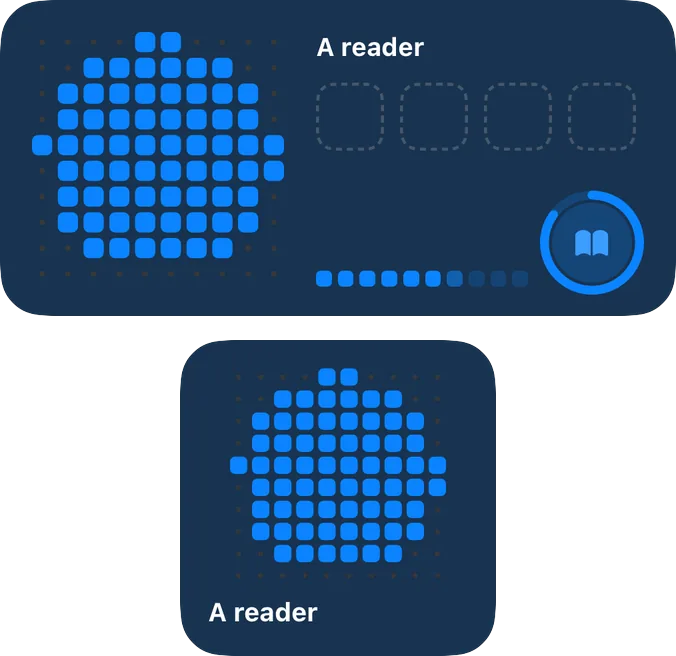
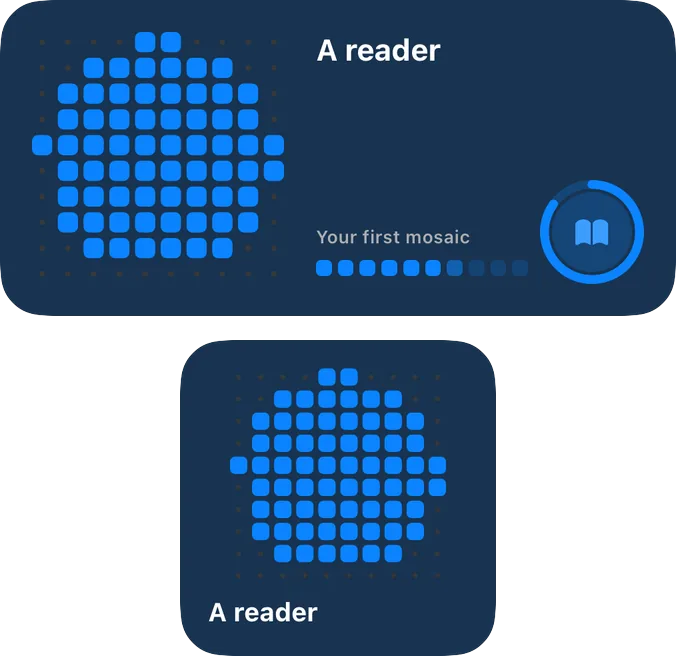
Site in step with build 1.1 (10): new Today and week, This week, Who you're becoming and Next up widget images; This week 'Habits' choice in support, llms.txt and widgets tab; Next up label in the demo

diff --git a/index.html b/index.html
@@ -25,8 +25,8 @@
 <link rel="icon" href="/favicon.svg?v=20261007" type="image/svg+xml">
 <link rel="apple-touch-icon" href="/assets/img/apple-touch-icon.png?v=20261007">
 <link rel="manifest" href="/site.webmanifest?v=20261007">
-<link rel="stylesheet" href="/assets/site.css?v=20261006">
-<script src="/assets/site.js?v=20261006" defer></script>
+<link rel="stylesheet" href="/assets/site.css?v=20261014">
+<script src="/assets/site.js?v=20261014" defer></script>
 <script type="application/ld+json">{"@context": "https://schema.org", "@type": "SoftwareApplication", "name": "Mostly Daily", "operatingSystem": "iOS", "applicationCategory": "HealthApplication", "url": "https://mostlydaily.com", "description": "A habit tracker that forgives. Miss a day, keep your progress: one miss never resets anything, rest days count as rest, and every check-in adds a tile to your mosaic. No account, no tracking.", "inLanguage": "en", "softwareVersion": "1.0", "image": "https://mostlydaily.com/assets/img/app-icon.png", "screenshot": ["https://mostlydaily.com/assets/img/today.jpg", "https://mostlydaily.com/assets/img/habit-screen.jpg", "https://mostlydaily.com/assets/img/limit-screen.jpg", "https://mostlydaily.com/assets/img/today-all-done.jpg"], "author": {"@type": "Person", "name": "Uladzimir Kazakevich"}}</script>
 <script type="application/ld+json">{"@context": "https://schema.org", "@type": "FAQPage", "mainEntity": [{"@type": "Question", "name": "What happens when I miss a day?", "acceptedAnswer": {"@type": "Answer", "text": "Nothing is reset. Your level dips a little and comes back just as fast when you check in again. Your run of \"never missed twice\" only ends after two misses in a row."}}, {"@type": "Question", "name": "What are habit steps?", "acceptedAnswer": {"@type": "Answer", "text": "A Build habit can start with its two-minute version and grow a step at a time. When a step has felt routine for a few weeks, the app offers the next one. Nothing changes by itself, you can go back a step anytime, and past days keep their credit. Free includes one next step at a time; Premium lets you plan up to 4 steps ahead."}}, {"@type": "Question", "name": "What is a Limit habit?", "acceptedAnswer": {"@type": "Answer", "text": "A habit you want less of, like drinks, sugar or screen time. You log the amount in the evening and get a colour calendar of clear, lighter and heavier days, with a goal of clear days per week."}}, {"@type": "Question", "name": "Do I need an account?", "acceptedAnswer": {"@type": "Answer", "text": "No. There is no account and no sign-in. Your habits stay on your devices and sync through your own iCloud."}}, {"@type": "Question", "name": "Is my data private?", "acceptedAnswer": {"@type": "Answer", "text": "Yes. No server, no analytics, no tracking. Check-ins from Apple Health and the drinks you log stay on your phone and are never put in iCloud."}}, {"@type": "Question", "name": "What happens if Premium ends?", "acceptedAnswer": {"@type": "Answer", "text": "Nothing is deleted. Habits beyond the Free plan are paused with all their history, and you can export everything at any time."}}, {"@type": "Question", "name": "What if I hit my habit limit?", "acceptedAnswer": {"@type": "Answer", "text": "Free has 3 habits, and Premium has unlimited habits with Focus mode keeping 5 in focus at a time. When a new habit would go over, a note on the form says so before you add it, and offers “Pause a habit…”. Pick one to pause: its history and level are kept, it waits under Paused, and you can resume it any time. Nothing is deleted."}}, {"@type": "Question", "name": "What are themes?", "acceptedAnswer": {"@type": "Answer", "text": "Five looks for the app and its widgets: Graphite, Midnight, Ocean, Plum and Glacier. A theme changes the background, cards, buttons and tint, never your habit colours. Graphite is included and the other four are part of Premium. If Premium ends, the app uses Graphite and your choice comes back with Premium."}}, {"@type": "Question", "name": "What are seasonal challenges?", "acceptedAnswer": {"@type": "Answer", "text": "Short, optional challenges with a finish line, like Clearer January. You join with a habit you already have or a new one, and the goal is most days, never every day. Rest and time-off days never count against you, and leaving keeps the habit and its history. The season's challenge is free to join from 7 days before its month until the 14th. Premium adds a library of 10 challenges you can start any time, each for 28 days. If Premium ends, a running challenge runs to its end and finished ones stay readable."}}, {"@type": "Question", "name": "What is the quarterly identity review?", "acceptedAnswer": {"@type": "Answer", "text": "At the start of each quarter, Reflect asks whether each identity (a reader, someone who moves) is still who you want to become: Keep, Adjust or Let go, plus an optional one-line note. Letting go archives its habits and keeps all their history. The review of the quarter just ended is free. Opening past reviews is Premium, but your notes always stay readable."}}, {"@type": "Question", "name": "Is it a treatment or recovery program?", "acceptedAnswer": {"@type": "Answer", "text": "No. Mostly Daily is for self-tracking and gives no medical advice. If you're worried about your health or drinking, please talk to a professional."}}]}</script>
 </head>
@@ -74,6 +74,7 @@
         <div class="homescreen">
       <div class="hs-grid">
         <div class="wg" role="group" data-widget="next" style="--c: var(--pink); --cl: var(--pink-l)" aria-label="Next up widget">
+          <div class="kicker" data-next-label aria-hidden="true">&rarr; Next up</div>
           <div class="name" data-next-name>Floss</div>
           <div class="foot"><div class="meter" aria-hidden="true"><div class="bars" data-next-bars><i class="on"></i><i class="on"></i><i></i><i></i></div><div class="word" data-next-word>Sometimes</div></div>
             <span class="ring" style="--p: 42" data-next-ring data-tap="floss" aria-label="Check in Floss"><svg viewBox="0 0 24 24" aria-hidden="true"><g class="sym"><path d="M3 12c3-3 6-4.2 9-4.2s6 1.2 9 4.2c-3 3-6 4.2-9 4.2S6 15 3 12z" fill="none" stroke="currentColor" stroke-width="2"/><path d="M5 12h14" stroke="currentColor" stroke-width="1.6"/></g><path class="chk" d="M6.5 12.5l3.6 3.6 7.4-8" fill="none" stroke="currentColor" stroke-width="2.8" stroke-linecap="round" stroke-linejoin="round"/></svg></span></div>
@@ -123,15 +124,15 @@
 
     <div class="tabpanel" id="every-widget">
       <h3 class="panel-title">Every widget</h3>
-      <p class="lead" style="margin:0 0 6px">Every widget shows the habit's colour and level, and has one control. Done turns the whole widget its colour. When everything is done, Next up shows your mosaic.</p>
+      <p class="lead" style="margin:0 0 6px">Every widget shows the habit's colour and level, and has one control. Done turns the whole widget its colour. When everything is done, Next up shows your mosaic. Premium&rsquo;s This week widget lets you pick which habits it shows: touch and hold it, tap Edit Widget, then Habits.</p>
       <div class="gallery" role="group" aria-label="Every widget">
       <figure><div class="art"><picture><source type="image/webp" srcset="/assets/img/widgets/gallery-habit-dark.webp" media="(prefers-color-scheme: dark)"><source srcset="/assets/img/widgets/gallery-habit-dark.png" media="(prefers-color-scheme: dark)"><source type="image/webp" srcset="/assets/img/widgets/gallery-habit-light.webp"><img src="/assets/img/widgets/gallery-habit-light.png" alt="Habit widgets: Read 10 pages open and done, Move 20 minutes done, Meditate as a new habit" width="656" height="656" loading="lazy" decoding="async"></picture></div><figcaption><b>Habit <span class="tag">Small · Free</span></b>Open, done, a new habit</figcaption></figure>
       <figure><div class="art"><picture><source type="image/webp" srcset="/assets/img/widgets/gallery-limit-dark.webp" media="(prefers-color-scheme: dark)"><source srcset="/assets/img/widgets/gallery-limit-dark.png" media="(prefers-color-scheme: dark)"><source type="image/webp" srcset="/assets/img/widgets/gallery-limit-light.webp"><img src="/assets/img/widgets/gallery-limit-light.png" alt="Limit widgets for Alcohol-free days: waiting for the evening, a clear day, and a day with two drinks" width="656" height="656" loading="lazy" decoding="async"></picture></div><figcaption><b>Habit, with a Limit habit <span class="tag">Small · Free</span></b>Evening, a clear day, a day with drinks</figcaption></figure>
-      <figure><div class="art"><picture><source type="image/webp" srcset="/assets/img/widgets/gallery-next-up-dark.webp" media="(prefers-color-scheme: dark)"><source srcset="/assets/img/widgets/gallery-next-up-dark.png" media="(prefers-color-scheme: dark)"><source type="image/webp" srcset="/assets/img/widgets/gallery-next-up-light.webp"><img src="/assets/img/widgets/gallery-next-up-light.png" alt="Next up widgets: Floss, then Read 10 pages, then All done with the mosaic" width="656" height="656" loading="lazy" decoding="async"></picture></div><figcaption><b>Next up <span class="tag">Small · Free</span></b>The next habit, then your mosaic</figcaption></figure>
-      <figure><div class="art"><picture><source type="image/webp" srcset="/assets/img/widgets/gallery-today-dark.webp" media="(prefers-color-scheme: dark)"><source srcset="/assets/img/widgets/gallery-today-dark.png" media="(prefers-color-scheme: dark)"><source type="image/webp" srcset="/assets/img/widgets/gallery-today-light.webp"><img src="/assets/img/widgets/gallery-today-light.png" alt="Today widget with the day ring and open habits, and the This week widget" width="676" height="656" loading="lazy" decoding="async"></picture></div><figcaption><b>Today <span class="tag">Medium · Free</span></b>The day ring and your open habits<b class="second">This week <span class="tag premium">Medium and large · Premium</span></b>Every habit with its week</figcaption></figure>
-      <figure><div class="art"><picture><source type="image/webp" srcset="/assets/img/widgets/gallery-large-dark.webp" media="(prefers-color-scheme: dark)"><source srcset="/assets/img/widgets/gallery-large-dark.png" media="(prefers-color-scheme: dark)"><source type="image/webp" srcset="/assets/img/widgets/gallery-large-light.webp"><img src="/assets/img/widgets/gallery-large-light.png" alt="The large Today and week widget" width="676" height="708" loading="lazy" decoding="async"></picture></div><figcaption><b>Today and week <span class="tag premium">Large · Premium</span></b>Every habit with its week</figcaption></figure>
+      <figure><div class="art"><picture><source type="image/webp" srcset="/assets/img/widgets/gallery-next-up-dark.webp" media="(prefers-color-scheme: dark)"><source srcset="/assets/img/widgets/gallery-next-up-dark.png" media="(prefers-color-scheme: dark)"><source type="image/webp" srcset="/assets/img/widgets/gallery-next-up-light.webp"><img src="/assets/img/widgets/gallery-next-up-light.png" alt="Next up widgets: Floss, then Read 10 pages, then All done with the mosaic" width="656" height="656" loading="lazy" decoding="async"></picture></div><figcaption><b>Next up <span class="tag">Small · Free</span></b>The next habit, with a &ldquo;Next up&rdquo; label, then your mosaic</figcaption></figure>
+      <figure><div class="art"><picture><source type="image/webp" srcset="/assets/img/widgets/gallery-today-dark.webp" media="(prefers-color-scheme: dark)"><source srcset="/assets/img/widgets/gallery-today-dark.png" media="(prefers-color-scheme: dark)"><source type="image/webp" srcset="/assets/img/widgets/gallery-today-light.webp"><img src="/assets/img/widgets/gallery-today-light.png" alt="Today widget with the day ring and open habits, and the This week widget" width="676" height="656" loading="lazy" decoding="async"></picture></div><figcaption><b>Today <span class="tag">Medium · Free</span></b>The day ring and your open habits<b class="second">This week <span class="tag premium">Medium and large · Premium</span></b>Your habits with their week, or the ones you choose</figcaption></figure>
+      <figure><div class="art"><picture><source type="image/webp" srcset="/assets/img/widgets/gallery-large-dark.webp" media="(prefers-color-scheme: dark)"><source srcset="/assets/img/widgets/gallery-large-dark.png" media="(prefers-color-scheme: dark)"><source type="image/webp" srcset="/assets/img/widgets/gallery-large-light.webp"><img src="/assets/img/widgets/gallery-large-light.png" alt="The large Today and week widget" width="676" height="708" loading="lazy" decoding="async"></picture></div><figcaption><b>Today and week <span class="tag premium">Large · Premium</span></b>Every habit with its week, in even rows</figcaption></figure>
       <figure><div class="art"><picture><source type="image/webp" srcset="/assets/img/widgets/gallery-calendar-dark.webp" media="(prefers-color-scheme: dark)"><source srcset="/assets/img/widgets/gallery-calendar-dark.png" media="(prefers-color-scheme: dark)"><source type="image/webp" srcset="/assets/img/widgets/gallery-calendar-light.webp"><img src="/assets/img/widgets/gallery-calendar-light.png" alt="The large month calendar widget for Alcohol-free days" width="676" height="708" loading="lazy" decoding="async"></picture></div><figcaption><b>Month calendar <span class="tag premium">Small and large · Premium</span></b>Clear, lighter and heavier days</figcaption></figure>
-      <figure><div class="art"><picture><source type="image/webp" srcset="/assets/img/widgets/gallery-mosaic-dark.webp" media="(prefers-color-scheme: dark)"><source srcset="/assets/img/widgets/gallery-mosaic-dark.png" media="(prefers-color-scheme: dark)"><source type="image/webp" srcset="/assets/img/widgets/gallery-mosaic-light.webp"><img src="/assets/img/widgets/gallery-mosaic-light.png" alt="Who you're becoming widgets showing a habit's own mosaic" width="676" height="656" loading="lazy" decoding="async"></picture></div><figcaption><b>Who you're becoming <span class="tag premium">Premium</span></b>One habit's own mosaic, and the ones you've finished</figcaption></figure>
+      <figure><div class="art"><picture><source type="image/webp" srcset="/assets/img/widgets/gallery-mosaic-dark.webp" media="(prefers-color-scheme: dark)"><source srcset="/assets/img/widgets/gallery-mosaic-dark.png" media="(prefers-color-scheme: dark)"><source type="image/webp" srcset="/assets/img/widgets/gallery-mosaic-light.webp"><img src="/assets/img/widgets/gallery-mosaic-light.png" alt="Who you're becoming widgets showing a habit's own mosaic" width="676" height="656" loading="lazy" decoding="async"></picture></div><figcaption><b>Who you're becoming <span class="tag premium">Premium</span></b>One habit's own mosaic, and the ones you&rsquo;ve finished; &ldquo;Your first mosaic&rdquo; until one is done</figcaption></figure>
       <figure><div class="art dark"><picture><source type="image/webp" srcset="/assets/img/widgets/gallery-tinted.webp"><img src="/assets/img/widgets/gallery-tinted.png" alt="Today widgets in a tinted and in a clear Home Screen" width="676" height="656" loading="lazy" decoding="async"></picture></div><figcaption><b>Tinted and clear</b>Right in every Home Screen style</figcaption></figure>
       <figure><div class="art dark"><picture><source type="image/webp" srcset="/assets/img/widgets/gallery-standby.webp"><img src="/assets/img/widgets/gallery-standby.png" alt="Next up and the mosaic in StandBy" width="656" height="316" loading="lazy" decoding="async"></picture></div><figcaption><b>StandBy</b>Big and calm on the nightstand</figcaption></figure>
       </div>

diff --git a/support.html b/support.html
@@ -25,8 +25,8 @@
 <link rel="icon" href="/favicon.svg?v=20261007" type="image/svg+xml">
 <link rel="apple-touch-icon" href="/assets/img/apple-touch-icon.png?v=20261007">
 <link rel="manifest" href="/site.webmanifest?v=20261007">
-<link rel="stylesheet" href="/assets/site.css?v=20261006">
-<script src="/assets/site.js?v=20261006" defer></script>
+<link rel="stylesheet" href="/assets/site.css?v=20261014">
+<script src="/assets/site.js?v=20261014" defer></script>
 </head>
 <body>
 <a class="skip" href="#main">Skip to content</a>
@@ -49,6 +49,7 @@
 <p>At 3:00 by default, so a late night still counts for the day it started. Change it in Settings &gt; Day ends at.</p>
 <h2>Widgets</h2>
 <p>Touch and hold the Home Screen, tap Edit &gt; Add Widget and search for Mostly Daily. Tap the ring (or the square, for a habit you want less of) on a widget to check in: it fills right away, without opening the app. When every habit is done, the Next up widget shows your mosaic. Widgets move to the new day on their own when your day ends.</p>
+<p>Premium&rsquo;s This week widget shows the habits that are due, a Limit habit or done today. To choose the habits yourself, touch and hold the widget, tap Edit Widget and tap Habits: pick up to 3 for the medium widget or 7 for the large one. They stay in the order you picked, every day, even on a day a habit is not due. Remove them all to go back to the automatic list.</p>
 <p>For the Lock Screen, touch and hold it, tap Customize and add Mostly Daily. For Control Center, open it, tap + and add Check in or Clear day. If a widget ever looks out of date, open the app once.</p>
 <h2>Reminders</h2>
 <p>Each habit can have a reminder time (Premium: two, and Today can suggest a better time). Settings &gt; Reminders gives the overview. A &ldquo;Close the day&rdquo; reminder in the evening, on by default, lets you finish what is still open with one tap each. You get at most two reminders a day. If a habit's reminders are ignored three times in a row, they pause until you check in again.</p>

diff --git a/assets/site.css b/assets/site.css
@@ -136,6 +136,7 @@ section { padding: clamp(32px, 6.5vw, 88px) 0; scroll-margin-top: 60px; }
 
 /* Widgets: direction B, colour field, drawn in CSS. Static (open state) without the script. */
 .wg { --c: var(--blue); position: relative; width: 158px; height: 158px; border-radius: 24px; padding: 14px; background: color-mix(in srgb, var(--c) var(--tint), var(--card)); color: var(--ink); display: grid; grid-template-rows: auto auto 1fr; transition: background-color .25s var(--ease); user-select: none; -webkit-user-select: none; }
+.wg .kicker { font-size: 11px; font-weight: 600; color: var(--ink2); line-height: 1.2; margin-bottom: 3px; }
 .wg .name { font-size: 15px; font-weight: 700; line-height: 1.2; letter-spacing: -.01em; }
 .wg .count { font-size: 13px; font-weight: 700; color: var(--ink2); display: flex; align-items: center; gap: 6px; }
 .wg .count .dayring { width: 14px; height: 14px; border-radius: 50%; background: conic-gradient(var(--green) 0 20%, transparent 20% 22%, var(--orange) 22% 40%, transparent 40% 42%, var(--line) 42% 100%); -webkit-mask: radial-gradient(circle, transparent 54%, #000 56%); mask: radial-gradient(circle, transparent 54%, #000 56%); }

diff --git a/404.html b/404.html
@@ -25,8 +25,8 @@
 <link rel="icon" href="/favicon.svg?v=20261007" type="image/svg+xml">
 <link rel="apple-touch-icon" href="/assets/img/apple-touch-icon.png?v=20261007">
 <link rel="manifest" href="/site.webmanifest?v=20261007">
-<link rel="stylesheet" href="/assets/site.css?v=20261006">
-<script src="/assets/site.js?v=20261006" defer></script>
+<link rel="stylesheet" href="/assets/site.css?v=20261014">
+<script src="/assets/site.js?v=20261014" defer></script>
 </head>
 <body>
 <a class="skip" href="#main">Skip to content</a>

diff --git a/guides/habits-you-want-less-of.html b/guides/habits-you-want-less-of.html
@@ -25,8 +25,8 @@
 <link rel="icon" href="/favicon.svg?v=20261007" type="image/svg+xml">
 <link rel="apple-touch-icon" href="/assets/img/apple-touch-icon.png?v=20261007">
 <link rel="manifest" href="/site.webmanifest?v=20261007">
-<link rel="stylesheet" href="/assets/site.css?v=20261006">
-<script src="/assets/site.js?v=20261006" defer></script>
+<link rel="stylesheet" href="/assets/site.css?v=20261014">
+<script src="/assets/site.js?v=20261014" defer></script>
 </head>
 <body>
 <a class="skip" href="#main">Skip to content</a>

diff --git a/guides/index.html b/guides/index.html
@@ -25,8 +25,8 @@
 <link rel="icon" href="/favicon.svg?v=20261007" type="image/svg+xml">
 <link rel="apple-touch-icon" href="/assets/img/apple-touch-icon.png?v=20261007">
 <link rel="manifest" href="/site.webmanifest?v=20261007">
-<link rel="stylesheet" href="/assets/site.css?v=20261006">
-<script src="/assets/site.js?v=20261006" defer></script>
+<link rel="stylesheet" href="/assets/site.css?v=20261014">
+<script src="/assets/site.js?v=20261014" defer></script>
 </head>
 <body>
 <a class="skip" href="#main">Skip to content</a>

diff --git a/guides/one-missed-day.html b/guides/one-missed-day.html
@@ -25,8 +25,8 @@
 <link rel="icon" href="/favicon.svg?v=20261007" type="image/svg+xml">
 <link rel="apple-touch-icon" href="/assets/img/apple-touch-icon.png?v=20261007">
 <link rel="manifest" href="/site.webmanifest?v=20261007">
-<link rel="stylesheet" href="/assets/site.css?v=20261006">
-<script src="/assets/site.js?v=20261006" defer></script>
+<link rel="stylesheet" href="/assets/site.css?v=20261014">
+<script src="/assets/site.js?v=20261014" defer></script>
 </head>
 <body>
 <a class="skip" href="#main">Skip to content</a>

diff --git a/guides/rest-days.html b/guides/rest-days.html
@@ -25,8 +25,8 @@
 <link rel="icon" href="/favicon.svg?v=20261007" type="image/svg+xml">
 <link rel="apple-touch-icon" href="/assets/img/apple-touch-icon.png?v=20261007">
 <link rel="manifest" href="/site.webmanifest?v=20261007">
-<link rel="stylesheet" href="/assets/site.css?v=20261006">
-<script src="/assets/site.js?v=20261006" defer></script>
+<link rel="stylesheet" href="/assets/site.css?v=20261014">
+<script src="/assets/site.js?v=20261014" defer></script>
 </head>
 <body>
 <a class="skip" href="#main">Skip to content</a>

diff --git a/privacy.html b/privacy.html
@@ -25,8 +25,8 @@
 <link rel="icon" href="/favicon.svg?v=20261007" type="image/svg+xml">
 <link rel="apple-touch-icon" href="/assets/img/apple-touch-icon.png?v=20261007">
 <link rel="manifest" href="/site.webmanifest?v=20261007">
-<link rel="stylesheet" href="/assets/site.css?v=20261006">
-<script src="/assets/site.js?v=20261006" defer></script>
+<link rel="stylesheet" href="/assets/site.css?v=20261014">
+<script src="/assets/site.js?v=20261014" defer></script>
 </head>
 <body>
 <a class="skip" href="#main">Skip to content</a>

diff --git a/terms.html b/terms.html
@@ -25,8 +25,8 @@
 <link rel="icon" href="/favicon.svg?v=20261007" type="image/svg+xml">
 <link rel="apple-touch-icon" href="/assets/img/apple-touch-icon.png?v=20261007">
 <link rel="manifest" href="/site.webmanifest?v=20261007">
-<link rel="stylesheet" href="/assets/site.css?v=20261006">
-<script src="/assets/site.js?v=20261006" defer></script>
+<link rel="stylesheet" href="/assets/site.css?v=20261014">
+<script src="/assets/site.js?v=20261014" defer></script>
 </head>
 <body>
 <a class="skip" href="#main">Skip to content</a>

diff --git a/assets/site.js b/assets/site.js
@@ -170,6 +170,7 @@
           var all = open.length === 0;
           w.classList.toggle("is-alldone", all);
           w.querySelector("[data-next-name]").hidden = all;
+          var lbl = w.querySelector("[data-next-label]"); if (lbl) lbl.hidden = all;
           w.querySelector(".foot").hidden = all;
           w.querySelector(".alldone").hidden = !all;
           w.querySelector("[data-mosaic]").hidden = !all;
